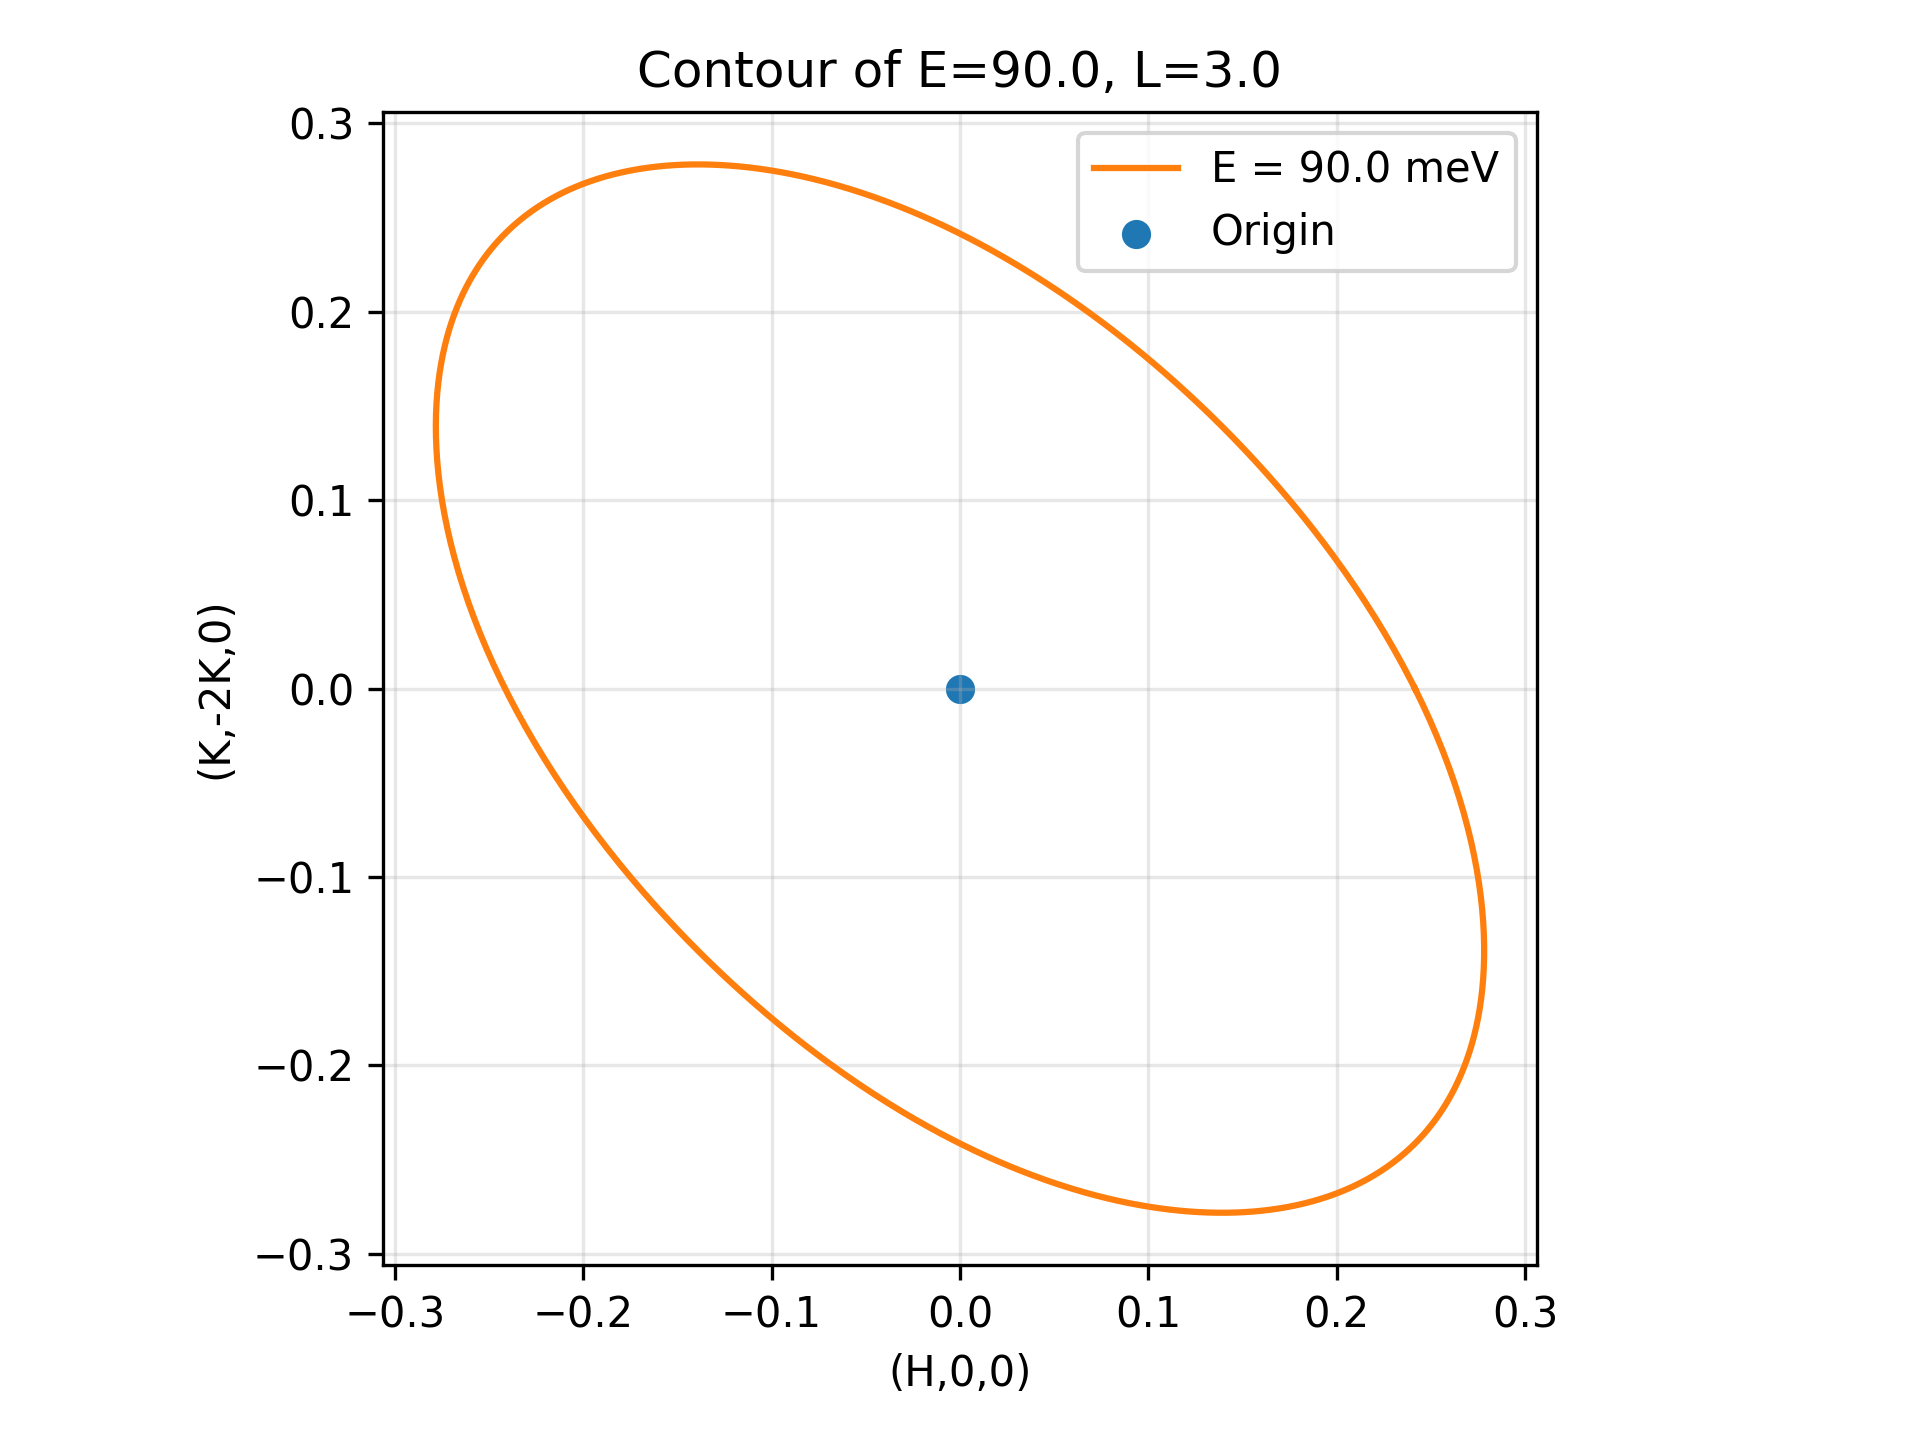
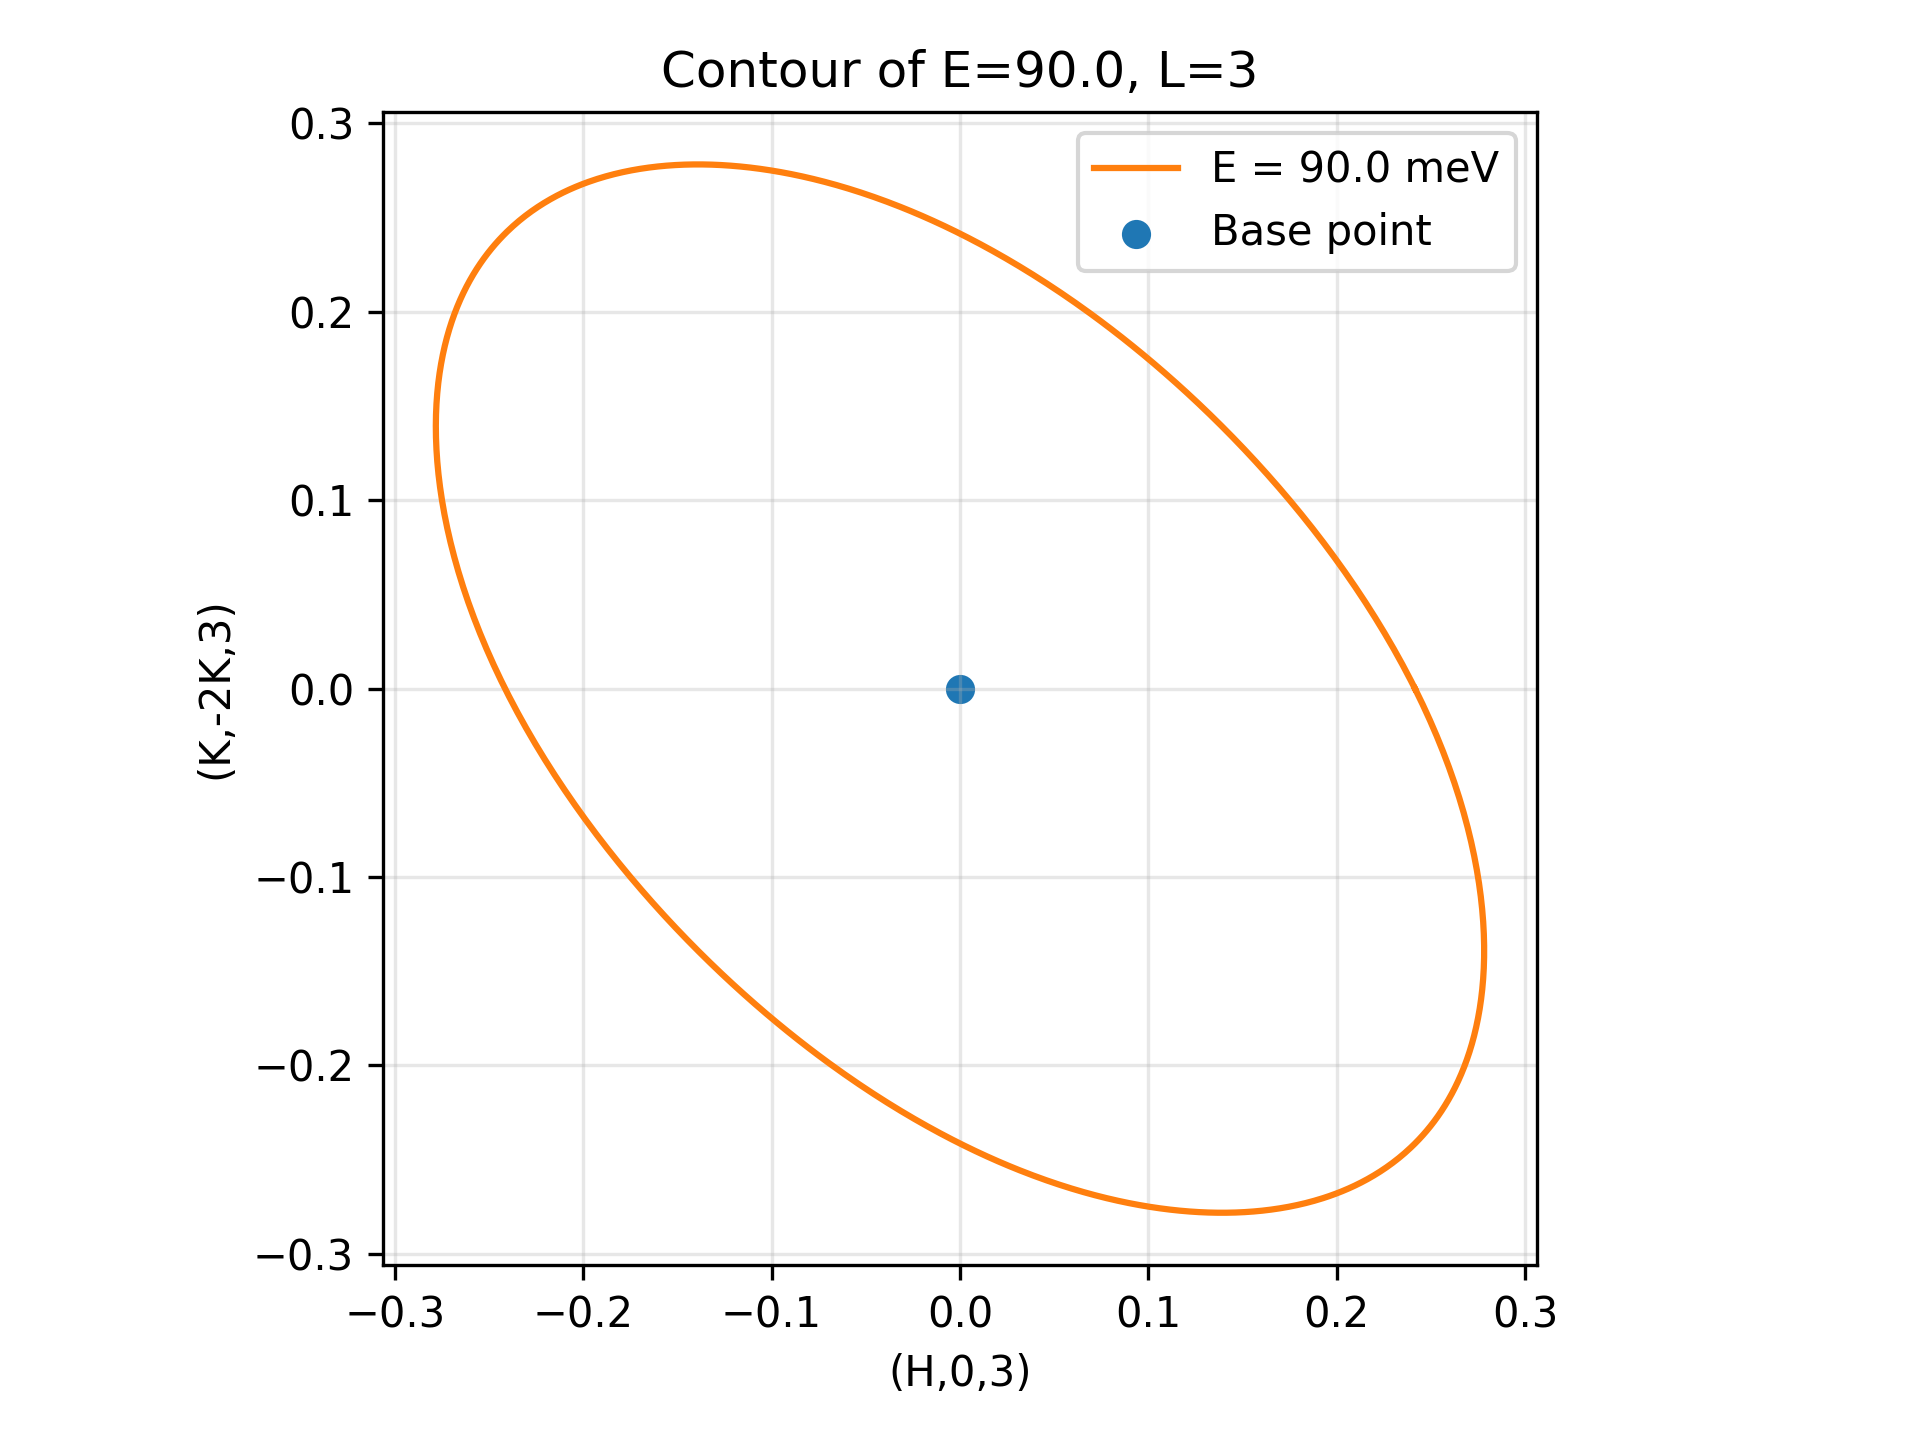
Update contour script, README, and export new contour figure

Changed region(s): [[0.3125, 0.0312, 0.6875, 0.0625], [0.625, 0.1562, 0.75, 0.1875], [0.5, 0.9375, 0.5312, 0.9688]]

diff --git a/FeS_HKE_plot.py b/FeS_HKE_plot.py
@@ -39,11 +39,15 @@ from fitting_FeS import (
 # ---------------------------------------------------------------------
 
 TARGET_ENERGY = 90.0  # 計算したいエネルギー値 E （単位はデータと揃える）
-FIXED_L = 3.0  # L 固定値
+FIXED_L = 3  # L 固定値
 
 # (H,0,L)-(K,-2K,L) 平面で探索するパラメータ領域 (h,k)
 H_PARAM_RANGE = (-0.5, 0.5)
 K_PARAM_RANGE = (-0.5, 0.5)
+
+# 基準点 (h0, k0) ― None の場合は各範囲の中心点を使用
+H_PARAM_CENTER: float | None = None
+K_PARAM_CENTER: float | None = None
 
 # 数値計算パラメータ
 ANGLE_SAMPLES = 720        # 閉曲線の分解能（角度分割数）
@@ -57,8 +61,19 @@ LAMBDA_TOL = 1e-6          # 二分法終了条件（関数値差）
 # ヘルパー関数
 # ---------------------------------------------------------------------
 
+def _resolve_center_value(center: float | None, interval: tuple[float, float]) -> float:
+    if center is not None:
+        return center
+    return 0.5 * (interval[0] + interval[1])
+
+
+H0 = _resolve_center_value(H_PARAM_CENTER, H_PARAM_RANGE)
+K0 = _resolve_center_value(K_PARAM_CENTER, K_PARAM_RANGE)
+
 PARAMETER_NAMES = ["J1", "J2", "J3", "J_alt", "J_prime_alt", "S", "D"]
 
+
+PARAMETER_NAMES = ["J1", "J2", "J3", "J_alt", "J_prime_alt", "S", "D"]
 
 def read_fit_results(csv_path: Path) -> Dict[str, float]:
     """
@@ -153,9 +168,9 @@ def param_to_cartesian(h_param: float, k_param: float) -> Tuple[float, float]:
 
 
 def lambda_on_ray(params: Dict[str, float], direction: np.ndarray, radius: float) -> float:
-    """半径 ``radius`` の位置 (h,k) = radius * direction で λ を計算。"""
-    h_param = radius * direction[0]
-    k_param = radius * direction[1]
+    """半径 ``radius`` の位置 (h,k) = (h0,k0) + radius * direction で λ を計算。"""
+    h_param = H0 + radius * direction[0]
+    k_param = K0 + radius * direction[1]
     if not in_domain(h_param, k_param):
         raise ValueError("Point lies outside the specified (h,k) domain.")
     return evaluate_lambda(params, h_param, k_param, FIXED_L)
@@ -172,7 +187,7 @@ def find_radius_for_direction(
     """
     if lambda_center >= TARGET_ENERGY:
         raise ValueError(
-            "lambda at the origin is already >= TARGET_ENERGY. "
+            "lambda at the base point is already >= TARGET_ENERGY. "
             "Please adjust TARGET_ENERGY or verify the monotonicity assumption."
         )
 
@@ -217,12 +232,12 @@ def compute_contour(params: Dict[str, float]) -> Tuple[np.ndarray, np.ndarray]:
     """
     角度 0〜2π を走査し、各方向で半径を求めて (H, K) 座標を返す。
     """
-    if not in_domain(0.0, 0.0):
-        raise ValueError("Origin is outside the specified parameter domain.")
-    lambda_center = evaluate_lambda(params, 0.0, 0.0, FIXED_L)
+    if not in_domain(H0, K0):
+        raise ValueError("Base point lies outside the specified parameter domain.")
+    lambda_center = evaluate_lambda(params, H0, K0, FIXED_L)
     if lambda_center >= TARGET_ENERGY:
         raise ValueError(
-            f"lambda(0,0,{FIXED_L})={lambda_center:.6f} "
+            f"lambda(base_h,base_k,{FIXED_L})={lambda_center:.6f} "
             f"is not smaller than TARGET_ENERGY={TARGET_ENERGY:.6f}."
         )
 
@@ -233,8 +248,8 @@ def compute_contour(params: Dict[str, float]) -> Tuple[np.ndarray, np.ndarray]:
     for angle in angles:
         direction = direction_vectors(angle)
         radius = find_radius_for_direction(params, direction, lambda_center)
-        h_param = radius * direction[0]
-        k_param = radius * direction[1]
+        h_param = H0 + radius * direction[0]
+        k_param = K0 + radius * direction[1]
         if not in_domain(h_param, k_param):
             raise RuntimeError("Computed contour point lies outside specified domain.")
         H_coord, K_coord = param_to_cartesian(h_param, k_param)
@@ -258,9 +273,10 @@ def main() -> None:
 
     fig, ax = plt.subplots()
     ax.plot(H_curve, K_curve, color="tab:orange", label=f"E = {TARGET_ENERGY} meV")
-    ax.scatter([0], [0], color="tab:blue", label="Origin")
-    ax.set_xlabel("(H,0,0)")
-    ax.set_ylabel("(K,-2K,0)")
+    origin_H, origin_K = param_to_cartesian(H0, K0)
+    ax.scatter([origin_H], [origin_K], color="tab:blue", label="Base point")
+    ax.set_xlabel("(H,0,{0})".format(FIXED_L))
+    ax.set_ylabel("(K,-2K,{0})".format(FIXED_L))
     ax.set_title(f"Contour of E={TARGET_ENERGY}, L={FIXED_L}")
     ax.grid(True, alpha=0.3)
     ax.set_aspect("equal", adjustable="box")
